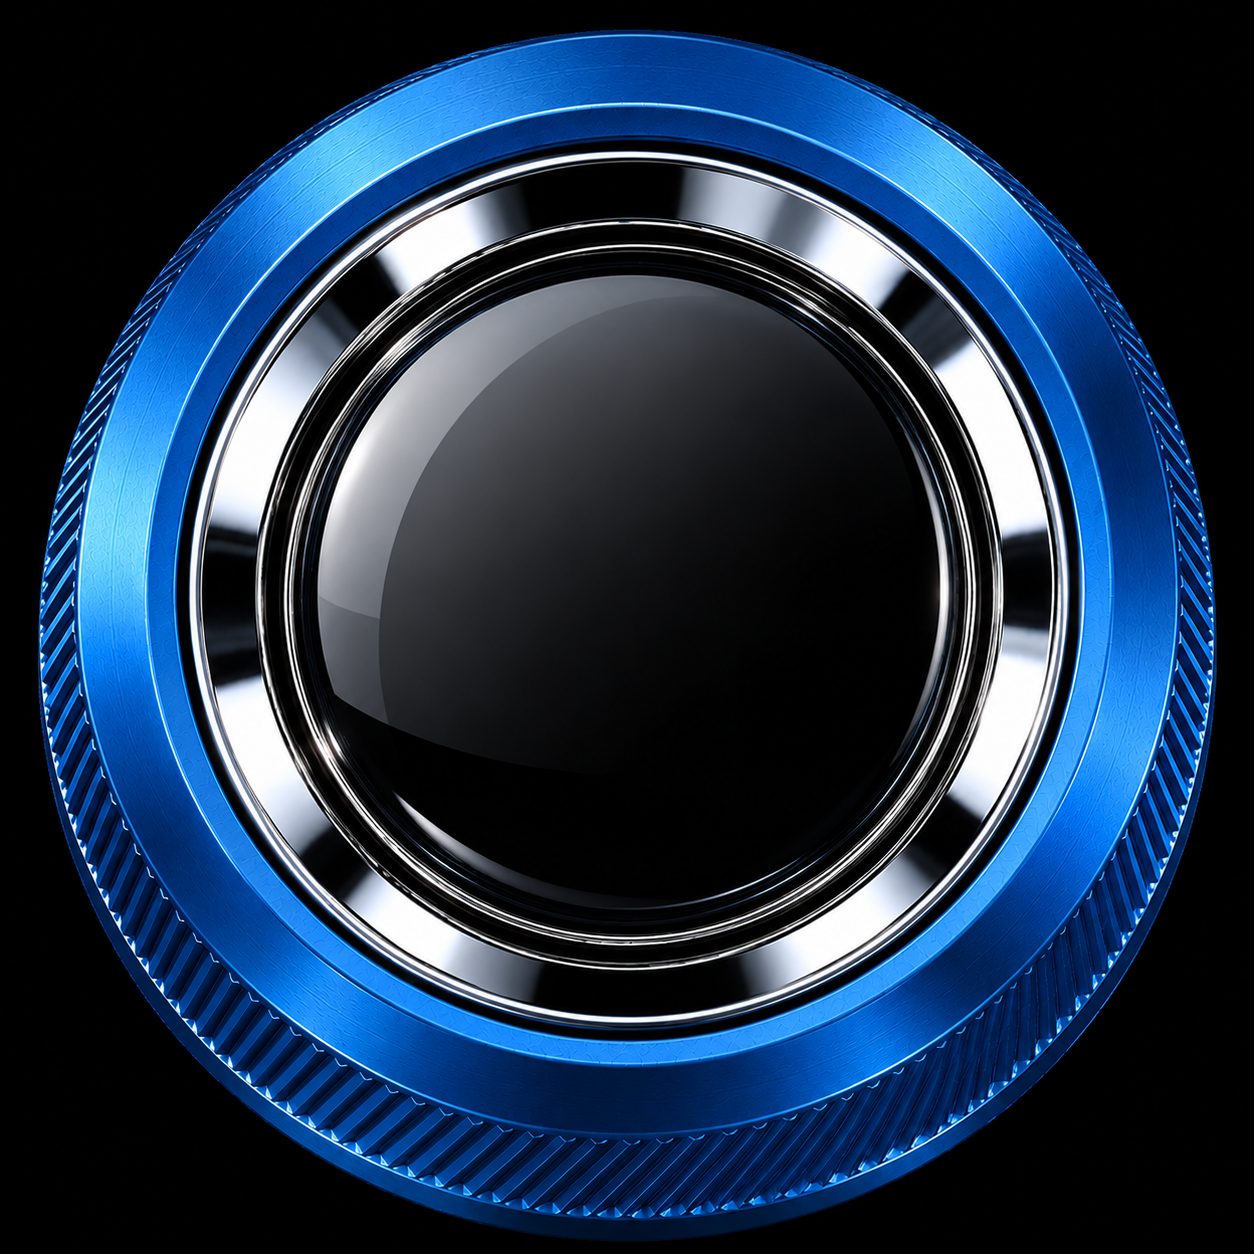
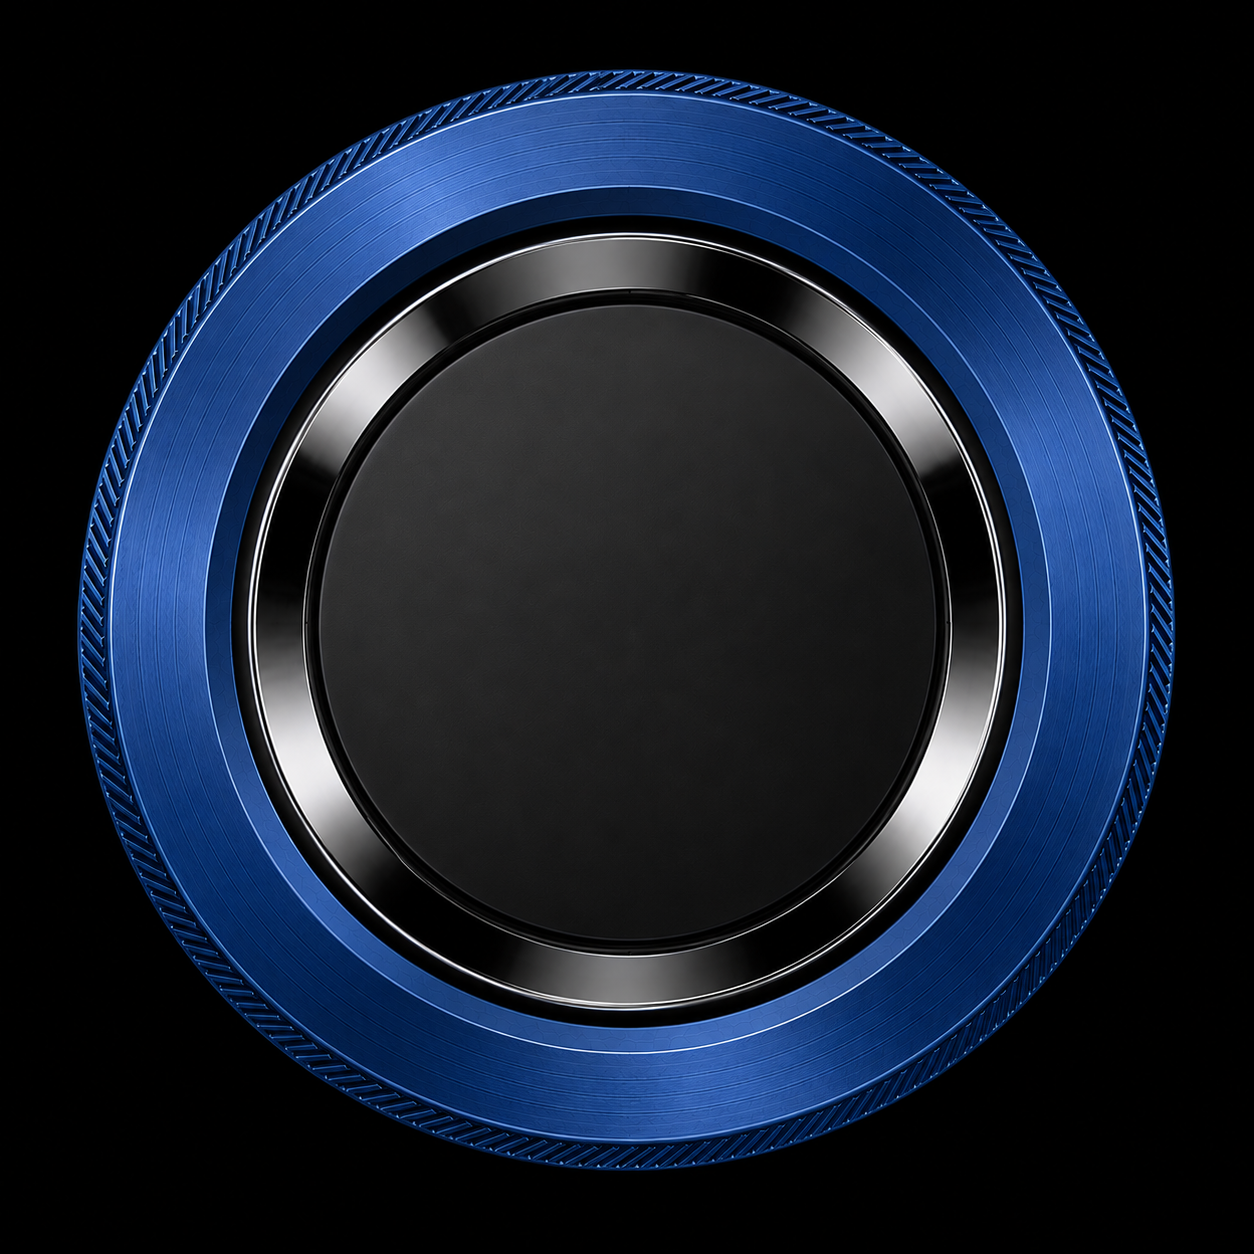
Arranque: renders frontales del usuario (off/on centrados); el aro calza perfecto sin perspectiva

diff --git a/docs/app/app.js b/docs/app/app.js
@@ -399,7 +399,7 @@ async function iniciar() {
   // uno nuevo = una línea aquí + su clase en styles.css + la opción en el
   // editor + aceptarlo en adminGuardarDispositivo.
   const ASPECTOS_IMAGEN = {
-    arranque: { img: 'boton-arranque.png?v=3', clase: 'boton-arranque' },
+    arranque: { img: 'boton-arranque.png?v=4', clase: 'boton-arranque' },
     bordado: { img: 'bordado.jpg?v=1', clase: 'boton-bordado' },
     hal: { img: 'hal.jpg?v=1', clase: 'boton-hal' },
     ascensor: { img: 'ascensor.webp?v=5', clase: 'boton-ascensor' },
@@ -2908,8 +2908,8 @@ async function iniciar() {
         // puerta tiene sensor y está ABIERTA, se queda encendido (el control
         // lleva la clase `.puerta-abierta`). El cruce lo hace el CSS.
         boton.className = 'boton-circular grande boton-imagen boton-arranque';
-        boton.innerHTML = '<img src="boton-arranque.png?v=3" alt="" class="boton-logo cara-off">'
-          + '<img src="boton-arranque-on.png?v=1" alt="" class="boton-logo cara-on">';
+        boton.innerHTML = '<img src="boton-arranque.png?v=4" alt="" class="boton-logo cara-off">'
+          + '<img src="boton-arranque-on.png?v=2" alt="" class="boton-logo cara-on">';
       } else if (ASPECTOS_IMAGEN[aspecto]) {
         // Aspectos de una sola imagen (Bordado, Hal): la foto es el botón y su
         // clase le da la animación al activarse (ver styles.css).

diff --git a/docs/app/index.html b/docs/app/index.html
@@ -501,6 +501,6 @@
 
   <div id="toast" class="oculto" role="status"></div>
 
-  <script type="module" src="app.js?v=435"></script>
+  <script type="module" src="app.js?v=436"></script>
 </body>
 </html>
